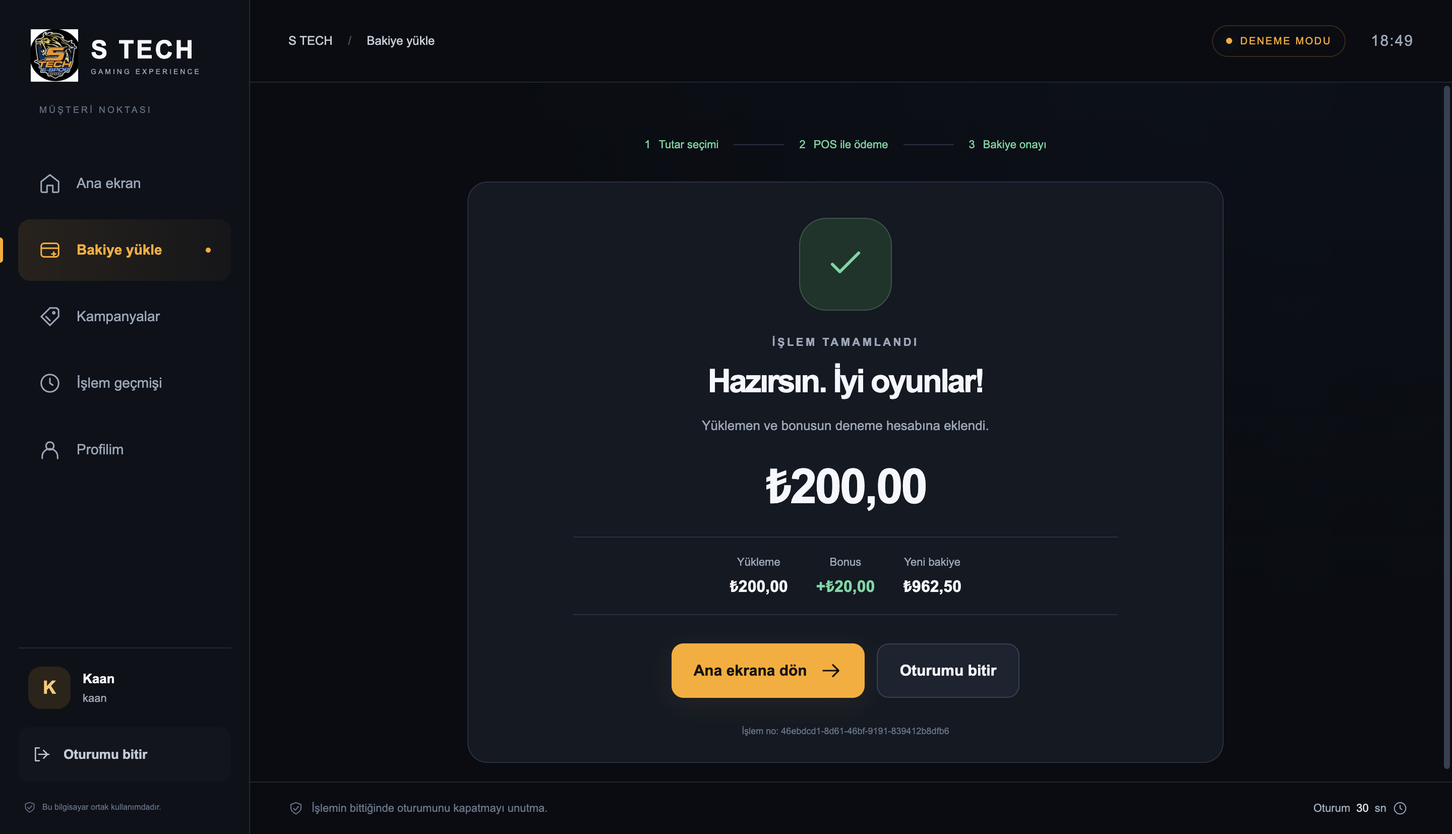
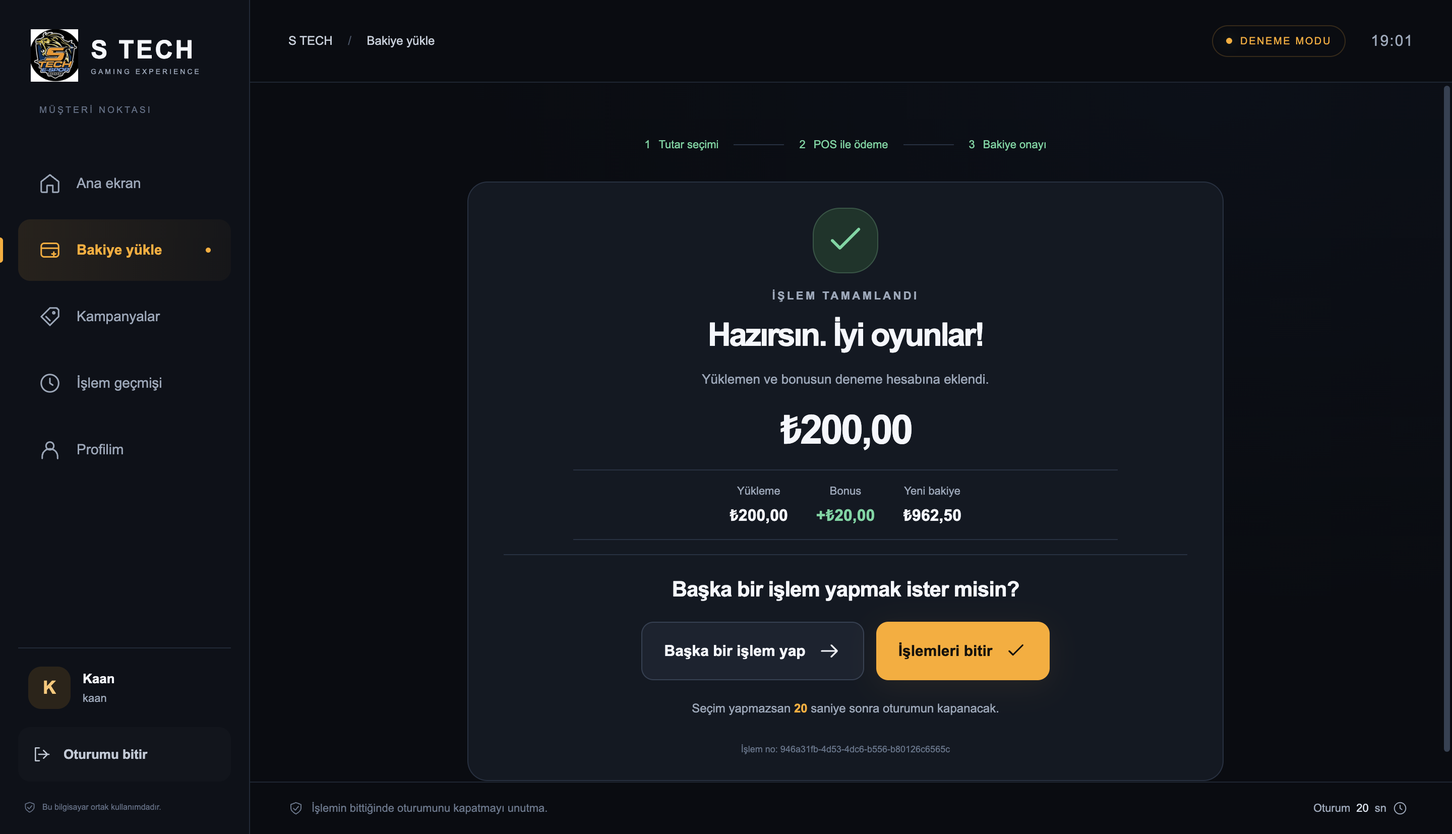
Add ATM-style kiosk completion choices and automatic session exit

Changed region(s): [[0.4375, 0.2467, 0.75, 0.925]]

diff --git a/kiosk/ui/styles.css b/kiosk/ui/styles.css
@@ -1,2 +1,3 @@
 :root{color-scheme:dark;--bg:#090c12;--surface:#131923;--elevated:#1b2330;--border:#263142;--text:#f5f7fc;--muted:#9ba8bb;--orange:#ffaa16;--blue:#48b9ff;--green:#63d8a0;--red:#ff8692;font-family:Inter,"Segoe UI",Arial,sans-serif;color:var(--text);background:var(--bg);font-synthesis:none}*{box-sizing:border-box}body{margin:0;user-select:none;overflow:hidden}button,input{font:inherit}button{cursor:pointer;touch-action:manipulation}button:disabled{opacity:.4;cursor:default}button:focus-visible,input:focus-visible{outline:3px solid var(--blue);outline-offset:4px}button{transition:background .15s,transform .15s}button:active:not(:disabled){transform:scale(.98)}h1,h2,h3,p{margin:0}h1{font-size:clamp(30px,3vw,46px);font-weight:650;letter-spacing:-1.8px;line-height:1.15}h2{font-size:22px;letter-spacing:-.5px}h3{font-size:19px}p{line-height:1.7;color:var(--muted)}.icon{width:23px;height:23px;flex-shrink:0;vertical-align:middle}.orange{color:var(--orange)}.positive{color:var(--green)!important}.muted{color:var(--muted);font-size:14px}.eyebrow{display:block;font-size:11px;font-weight:700;letter-spacing:2.2px;color:var(--muted)}.button{border:0;border-radius:12px;min-height:54px;padding:14px 22px;display:inline-flex;align-items:center;justify-content:center;gap:12px;font-weight:650;font-size:15px;background:transparent;color:var(--text)}.primary{background:var(--orange);color:#16120b;box-shadow:0 6px 28px #ffaa1614}.primary:hover:not(:disabled){background:#ffbb43}.secondary{background:#1b2330;border:1px solid #344154}.secondary:hover{background:#263142}.quiet{color:var(--muted);font-size:14px;padding:12px}.quiet:hover{color:var(--text);background:#ffffff06}.wide{width:100%}.brand{display:flex;align-items:center;gap:10px}.brand img{width:52px;height:52px;object-fit:contain}.brand>span{font-size:25px;letter-spacing:2px;font-weight:800;white-space:nowrap}.brand small{display:block;font-size:7px;letter-spacing:2px;color:var(--muted);margin-top:3px;font-weight:500}.header-right{display:flex;align-items:center;gap:25px}.clock{font-size:15px;letter-spacing:1px;color:var(--muted);font-variant-numeric:tabular-nums}.status{font-size:10px;letter-spacing:1.3px;display:flex;align-items:center;gap:8px;border:1px solid #63d8a024;color:var(--green);border-radius:30px;padding:9px 13px}.status i,.reader-status i{width:6px;height:6px;border-radius:50%;background:var(--green);box-shadow:0 0 12px #63d8a040}.status.demo{border-color:#ffaa1630;color:var(--orange)}.status.demo i{background:var(--orange)}header{display:flex;justify-content:space-between;align-items:center}footer{display:flex;align-items:center;justify-content:space-between;color:#69788e;font-size:11px}footer>span{display:flex;align-items:center;gap:8px}footer .icon{width:15px;height:15px}.footer-separator{margin:0 12px;color:#344154}.welcome{height:100dvh;display:flex;flex-direction:column;padding:35px 5% 24px;background:radial-gradient(ellipse at 80% 40%,#15263a50,transparent 50%),var(--bg)}.welcome-main{display:grid;grid-template-columns:1.05fr 1fr;align-items:center;gap:6%;flex:1;max-width:1360px;width:100%;margin:auto}.welcome-copy .eyebrow{color:var(--orange);display:flex;align-items:center;gap:12px}.tiny-line{height:2px;width:28px;background:var(--orange)}.welcome-copy h1{font-size:clamp(50px,5.5vw,88px);font-weight:750;letter-spacing:-4px;line-height:1.07;margin:30px 0 25px}.welcome-copy h1>span{color:var(--orange)}.welcome-copy>p{font-size:18px;line-height:1.8}.welcome-benefits{display:flex;gap:28px;margin-top:45px;font-size:12px;color:#aebaca}.welcome-benefits>span{display:flex;align-items:center;gap:10px}.welcome-benefits .icon{color:var(--orange);width:20px}.tap-panel{background:linear-gradient(140deg,#1b2432,#111823 70%);border:1px solid #314052;border-radius:28px;text-align:center;padding:24px 30px 26px;max-width:500px;width:100%;justify-self:end;box-shadow:0 30px 100px #0003}.panel-top{display:flex;justify-content:space-between;align-items:center;color:#7e8ca1;font-size:9px;letter-spacing:2px}.panel-top .icon{width:18px;color:#607389}.tap-orbit{height:245px;position:relative;display:grid;place-items:center;margin:8px auto}.tap-ring{position:absolute;width:220px;height:220px;border:1px solid #ffaa1610;border-radius:50%;background:radial-gradient(circle,#ffaa1609,transparent 70%)}.tap-ring.second{width:180px;height:180px;border-color:#ffaa161b}.member-card{width:198px;height:125px;background:linear-gradient(125deg,#35302b,#1b1d22 80%);border:1px solid #8a6d373f;border-radius:13px;transform:rotate(-12deg);padding:18px;box-shadow:14px 25px 35px #0006;position:relative}.member-card:after{content:'S';position:absolute;right:20px;top:25px;font-size:85px;font-style:italic;font-weight:900;color:#ffaa1614;line-height:1}.member-card-head{display:flex;justify-content:space-between;align-items:center;font-size:13px;font-weight:800;letter-spacing:2px;color:var(--orange)}.member-card-head .icon{width:19px}.card-chip{width:24px;height:19px;background:linear-gradient(130deg,#c7a36a,#88724d);border-radius:4px;margin-top:11px}.member-card-bottom{display:flex;justify-content:space-between;font-size:6px;letter-spacing:1px;color:#baa98e;margin-top:15px}.tap-symbol{position:absolute;bottom:23px;right:70px;display:grid;place-items:center;width:58px;height:58px;background:var(--orange);color:#211a0b;border:6px solid #151c27;border-radius:50%}.tap-symbol .icon{width:29px;height:29px}.tap-panel h2{font-size:29px;letter-spacing:-1px}.tap-panel>p{font-size:14px;margin-top:12px}.reader-status{display:flex;gap:9px;align-items:center;justify-content:center;font-size:11px;color:var(--green);margin:23px auto}.demo-entry{border-top:1px solid var(--border);padding-top:18px;display:grid;gap:6px}.demo-entry>span{color:var(--muted);font-size:10px;margin-bottom:7px}.demo-entry .button{min-height:44px;font-size:13px}.demo-entry .quiet{min-height:36px}.secure-note{font-size:11px;color:#718097;display:flex;align-items:center;justify-content:center;gap:8px;line-height:1.5;margin-top:18px}.secure-note .icon{width:16px;height:16px}.shell{display:flex;height:100dvh}.shell aside{width:248px;flex-shrink:0;border-right:1px solid #202a38;background:#0d1119;display:flex;flex-direction:column;padding:29px 18px 20px}.shell aside .brand{padding-left:10px}.station-label{font-size:9px;letter-spacing:2px;color:#627087;margin:23px 0 32px 21px}.nav-item{border:0;background:none;color:var(--muted);height:61px;width:100%;display:flex;align-items:center;gap:15px;padding:0 20px;border-radius:12px;font-size:14px;margin:5px 0;position:relative}.nav-item.active{background:linear-gradient(90deg,#ffaa161c,#ffaa1609);color:var(--orange);font-weight:650}.nav-item.active:before{content:'';position:absolute;left:-18px;width:3px;height:25px;background:var(--orange);border-radius:0 3px 3px 0}.nav-item:hover:not(.active){background:#ffffff04;color:var(--text)}.nav-dot{width:5px;height:5px;background:var(--orange);border-radius:50%;margin-left:auto}.sidebar-bottom{margin-top:auto}.member-mini{display:flex;align-items:center;gap:12px;padding:18px 10px;border-top:1px solid #202a38}.avatar{height:42px;width:42px;border-radius:13px;background:#2c2418;color:#ffc770;display:grid;place-items:center;font-size:18px;font-weight:700;flex-shrink:0}.member-mini strong{font-size:13px;display:block;max-width:140px;overflow:hidden;text-overflow:ellipsis;white-space:nowrap}.member-mini span{font-size:11px;color:var(--muted);display:block;margin-top:5px}.logout-button{color:#c1cad7;width:100%;justify-content:flex-start;font-size:13px;padding-left:14px;background:#ffffff04}.logout-button .icon{width:19px}.sidebar-foot{font-size:8px;color:#627087;display:flex;align-items:center;gap:6px;margin:19px 5px 0}.sidebar-foot .icon{width:13px;height:13px}.workspace{flex:1;min-width:0;display:flex;flex-direction:column}.workspace>header{height:82px;flex-shrink:0;border-bottom:1px solid #1d2633;padding:0 38px}.breadcrumb{font-size:12px;color:#c6cfdb}.breadcrumb>span{color:#485569;margin:0 12px}.workspace>footer{height:52px;flex-shrink:0;padding:0 38px;border-top:1px solid #1d2633}.session-time{font-size:11px;color:var(--muted);background:none;border:0;display:flex;align-items:center;gap:6px;min-height:42px}.session-time b{font-weight:500;color:#d9e1ec}.content{flex:1;overflow:auto;padding:35px 38px 28px;scrollbar-width:thin;scrollbar-color:#344154 transparent;background:radial-gradient(ellipse at 80% 0,#11203635,transparent 55%)}.page-heading{display:flex;align-items:center;justify-content:space-between;margin-bottom:28px;gap:20px}.page-heading h1{margin:11px 0}.page-heading p{font-size:13px}.member-badge{display:inline-flex;align-items:center;gap:8px;color:#a9b9cd;font-size:10px;letter-spacing:1px;padding:11px 13px;border:1px solid var(--border);border-radius:9px;white-space:nowrap}.member-badge .icon{width:19px;height:19px;color:var(--orange)}.home-grid{display:grid;grid-template-columns:1.35fr 1fr;gap:22px}.balance-card{position:relative;overflow:hidden;border-radius:22px;padding:27px;background:linear-gradient(110deg,#1c2635,#152031);border:1px solid #344357;min-height:265px}.balance-top{display:flex;align-items:center;justify-content:space-between;position:relative;z-index:1}.balance-top>span:first-child{font-size:10px;letter-spacing:1.7px;color:#c0ccdc;display:flex;align-items:center;gap:10px}.balance-top .icon{width:20px;color:var(--orange)}.balance-mark{font-size:29px;font-style:italic;font-weight:900;color:#8a98ae}.balance-value{font-size:clamp(40px,4.1vw,65px);font-weight:700;letter-spacing:-2.6px;margin:18px 0 3px;position:relative;z-index:1;font-variant-numeric:tabular-nums}.balance-caption{font-size:11px;color:#899ab0;position:relative;z-index:1}.balance-bottom{display:flex;align-items:center;justify-content:space-between;gap:12px;margin-top:28px;position:relative;z-index:1}.balance-bottom>.button{min-width:180px}.balance-bottom>span{font-size:9px;color:#98a8be;display:flex;align-items:center;gap:5px}.balance-bottom>span .icon{width:14px;height:14px}.balance-decoration{width:240px;height:310px;position:absolute;right:-70px;top:20px;border:45px solid #293b5260;transform:rotate(30deg) skew(-7deg);border-radius:25px}.campaign-card{position:relative;overflow:hidden;border:1px solid #6b4b22;border-radius:22px;padding:25px;background:linear-gradient(125deg,#35291a,#1e1a16);display:flex;flex-direction:column;align-items:flex-start;min-height:265px}.campaign-card .eyebrow{color:#c8a36e;font-size:9px;z-index:1}.campaign-big{display:flex;align-items:center;gap:12px;font-size:62px;font-weight:850;letter-spacing:-4px;color:var(--orange);margin:4px 0;z-index:1}.campaign-big>span{font-size:16px;letter-spacing:2px;max-width:60px;line-height:1.2;font-weight:700}.campaign-card h3{font-size:17px;letter-spacing:-.4px;z-index:1}.campaign-card>p{font-size:12px;color:#c0ad91;margin:8px 0 12px;z-index:1;max-width:230px}.light-button{padding:8px 0;min-height:34px;font-size:12px;color:#ffd18b;z-index:1;margin-top:auto}.light-button .icon{width:17px}.campaign-watermark{position:absolute;right:-20px;top:20px;color:#ffaa160b;font-size:280px;font-weight:400;line-height:1;transform:rotate(-15deg)}.quick-strip{display:flex;align-items:center;justify-content:space-between;padding:20px 0;margin:5px 0 15px;gap:15px}.quick-strip>div{display:flex;align-items:center;gap:12px}.quick-strip>div>.icon{width:36px;height:36px;color:#637c9c}.quick-strip>div span{font-size:10px;color:var(--muted);line-height:1.8}.quick-strip strong{display:block;font-size:12px;font-weight:500;color:#c4d0df}.quick-strip>p{font-size:11px}.quick-strip .button{font-size:11px}.panel{background:var(--surface);border:1px solid var(--border);border-radius:20px;padding:24px}.section-heading{display:flex;align-items:center;justify-content:space-between;margin-bottom:12px;gap:15px}.section-heading h2{font-size:19px}.section-heading>span{font-size:10px;color:#74839a;letter-spacing:2px}.section-heading .button{font-size:12px;min-height:36px}.recent{padding:15px 24px 10px}.transaction{display:flex;align-items:center;gap:13px;padding:17px 0;border-top:1px solid #243040}.transaction-icon{height:39px;width:39px;display:grid;place-items:center;border-radius:12px;background:#1e2b3c;color:#84a5cf;flex-shrink:0}.transaction-icon .icon{width:20px;height:20px}.transaction-icon.topup{background:#1e302b;color:var(--green)}.transaction-icon.bonus{background:#332a1b;color:var(--orange)}.transaction-description{flex:1;min-width:0}.transaction-description strong{display:block;font-size:12px;font-weight:550;line-height:1.5}.transaction-description span{display:block;margin-top:5px;font-size:10px;color:#78899f}.transaction-amount{text-align:right;flex-shrink:0}.transaction-amount strong{font-size:14px;font-weight:600}.transaction-amount span{display:block;margin-top:6px;font-size:10px;color:#78899f}.pending-banner{display:flex;align-items:center;gap:15px;background:#172a3c;border:1px solid #2a526f;border-radius:14px;padding:16px 20px;margin-bottom:20px;color:var(--blue)}.pending-banner>div{flex:1}.pending-banner strong{display:block;font-size:13px;color:var(--text)}.pending-banner span{display:block;font-size:11px;color:#90aac1;margin-top:5px}.pending-banner .button{min-height:42px;font-size:12px}.notice{background:#302416;border:1px solid #664720;color:#e4bf87;font-size:12px;padding:15px 18px;border-radius:12px;display:flex;align-items:center;gap:12px;margin-bottom:24px;line-height:1.7}.notice .icon{width:20px;align-self:flex-start;margin-top:1px}.notice.neutral{background:#152235;border-color:#2a3d56;color:#9db3cf}.topup-grid{display:grid;grid-template-columns:1.1fr 1fr;gap:25px;max-width:1080px}.amount-panel{padding:25px}.amount-display{display:flex;align-items:baseline;gap:10px;justify-content:center;border:1px solid #3b4b61;background:#0e1520;border-radius:14px;padding:20px;margin:22px 0 18px;font-variant-numeric:tabular-nums}.amount-display strong{font-size:50px;letter-spacing:-2px}.amount-display>span:first-child{color:var(--orange);font-size:25px}.amount-display>span:last-child{font-size:14px;color:var(--muted)}.amount-presets{display:grid;grid-template-columns:repeat(4,1fr);gap:8px;margin-bottom:20px}.preset{font-size:12px;padding:10px 5px;min-height:47px;border:1px solid var(--border);border-radius:9px;background:#1a2330;color:#afbdd0}.preset.selected{border-color:var(--orange);color:var(--orange);background:#332919}.keypad{display:grid;grid-template-columns:repeat(3,1fr);gap:9px}.key{background:#1b2533;min-height:58px;border-radius:10px;font-size:23px;font-weight:500;padding:8px}.key:hover{background:#29384b}.key-small{font-size:11px;color:var(--muted)}.minimum{font-size:10px;text-align:center;margin-top:17px}.summary h2{margin:13px 0 25px;font-size:25px}.summary-row{display:flex;justify-content:space-between;align-items:center;gap:20px;padding:17px 0;border-bottom:1px solid var(--border);font-size:13px}.summary-row>span{color:var(--muted)}.summary-row strong{font-weight:550}.summary-total{display:flex;justify-content:space-between;align-items:center;padding:24px 0;gap:15px}.summary-total>span{font-size:12px;color:#cad3e0}.summary-total strong{color:var(--orange);font-size:30px;letter-spacing:-1px}.bonus-note{display:flex;align-items:center;gap:8px;color:var(--green);font-size:10px;margin-bottom:25px}.bonus-note .icon{width:16px}.summary>p{font-size:11px;margin-bottom:23px}.payment-how{padding:25px 15px;color:var(--muted)}.payment-how>span{font-size:9px;letter-spacing:2px;color:#687b96}.payment-how p{font-size:12px;display:flex;gap:13px;align-items:center;margin-top:15px}.payment-how b{font-size:10px;background:#1b2533;border:1px solid #2c3a4e;display:grid;place-items:center;width:23px;height:23px;border-radius:50%;font-weight:500}.campaign-grid{display:grid;grid-template-columns:repeat(2,1fr);gap:22px;margin-bottom:25px}.campaign-grid .campaign-card{padding:35px;min-height:360px}.campaign-grid .campaign-big{font-size:90px}.campaign-grid .campaign-card h3{font-size:22px}.campaign-grid .campaign-card>p{font-size:14px;max-width:100%}.filter-bar{display:flex;gap:10px;margin-bottom:24px;flex-wrap:wrap}.filter{font-size:12px;color:var(--muted);background:#121a25;border:1px solid var(--border);min-height:46px;padding:10px 20px}.filter.selected{color:var(--orange);border-color:#705021;background:#2d2418}.history-panel .transaction:first-child{border:0}.history-panel .transaction{padding:22px 0}.session-panel{margin-top:24px}.session-panel h2{margin-bottom:20px}.session-panel>.transaction>.icon{color:var(--blue)}.session-panel>.transaction>strong{font-size:13px}.loading-line{font-size:12px;text-align:center;padding:20px}.empty{text-align:center;padding:50px 20px;color:#677991}.empty>.icon{width:36px;height:36px;margin-bottom:17px}.empty h3,.empty h2{color:#d5dfed;font-size:18px;margin-bottom:10px}.empty p{font-size:12px}.profile-grid{display:grid;grid-template-columns:.7fr 1.3fr;gap:25px}.profile-card{display:flex;align-items:center;flex-direction:column;padding:35px 25px}.avatar.large{width:82px;height:82px;border-radius:24px;font-size:36px;margin-bottom:22px}.profile-card h2{font-size:25px;margin-bottom:8px;text-align:center}.profile-card .member-badge{margin-top:25px}.profile-balance{margin-top:30px;border-top:1px solid var(--border);padding-top:25px;text-align:center;width:100%}.profile-balance span{display:block;color:var(--muted);font-size:11px}.profile-balance strong{display:block;color:var(--orange);font-size:30px;margin-top:12px}.profile-details h2{margin-bottom:12px}.profile-details .notice{margin-top:24px;margin-bottom:0;font-size:11px}.profile-details strong{max-width:65%;overflow-wrap:anywhere;text-align:right}.privacy-strip{display:flex;align-items:center;gap:20px;margin-top:25px;padding:24px;background:#0f1825;border:1px solid var(--border);border-radius:16px}.privacy-strip>.icon{color:var(--blue);width:29px;height:29px}.privacy-strip>div{flex:1}.privacy-strip strong{font-size:13px}.privacy-strip p{font-size:11px;margin-top:5px}.privacy-strip .button{font-size:12px}.payment-page{max-width:1000px;margin:auto}.payment-steps{display:flex;justify-content:center;align-items:center;margin:20px 0 30px;gap:15px}.payment-steps>span{display:flex;align-items:center;gap:8px;font-size:11px;color:#5e718b}.payment-steps b{font-weight:500}.payment-steps i{width:50px;height:1px;background:var(--border)}.payment-steps .current{color:var(--orange)}.payment-steps .finished{color:var(--green)}.payment-panel{text-align:center;padding:35px 35px 25px;max-width:750px;margin:auto}.payment-illustration{width:92px;height:92px;border-radius:27px;background:#33291b;color:var(--orange);display:grid;place-items:center;margin:0 auto 25px;border:1px solid #6b4b22}.payment-illustration .icon{width:45px;height:45px}.payment-illustration.success{background:#19352a;color:var(--green);border-color:#315746}.payment-illustration.failure{background:#35202a;color:var(--red);border-color:#68384b}.payment-panel h1{font-size:32px;margin:14px 0}.payment-panel>p{font-size:13px}.payment-value{font-size:48px;letter-spacing:-2px;font-weight:700;margin:22px 0}.payment-receipt{display:flex;justify-content:center;gap:28px;border-top:1px solid var(--border);border-bottom:1px solid var(--border);padding:18px 0;margin:0 auto 25px;max-width:540px}.payment-receipt>span{color:var(--muted);font-size:11px}.payment-receipt b{display:block;margin-top:8px;font-size:16px;color:var(--text);font-weight:550}.pos-demo{background:#101923;border:1px dashed #364257;padding:18px;border-radius:12px}.pos-demo>span{font-size:8px;letter-spacing:1.3px;color:#9da9b9}.pos-demo>div{display:flex;gap:12px;justify-content:center;margin-top:16px}.pos-demo .button{font-size:12px}.receipt-id{font-size:9px;color:#66768d;margin-top:25px;overflow-wrap:anywhere}.payment-panel>.button{margin:3px 6px}.no-campaign{display:flex;flex-direction:column;justify-content:center;gap:18px}.no-campaign .icon{color:var(--blue)}.no-campaign p{font-size:12px}#toast{position:fixed;bottom:72px;left:50%;transform:translateX(-50%);background:#35242a;color:#ffe1e5;border:1px solid #8e4f5d;border-radius:12px;padding:17px 24px;max-width:650px;width:max-content;font-size:14px;z-index:100;box-shadow:0 10px 40px #0007;line-height:1.6}#toast[hidden]{display:none}.modal-backdrop{position:fixed;inset:0;background:#030810c9;backdrop-filter:blur(8px);z-index:50;display:grid;place-items:center;padding:25px}.modal{background:#151e2b;border:1px solid #35445a;border-radius:24px;padding:34px;max-width:480px;width:100%;box-shadow:0 30px 100px #0008;text-align:center;max-height:95dvh;overflow:auto}.modal h2{font-size:27px;margin:13px 0}.modal>p{font-size:13px;margin-bottom:23px}.modal .button.wide{margin-top:10px}.modal-symbol{display:grid;place-items:center;width:62px;height:62px;border-radius:19px;background:#2f291d;color:var(--orange);margin:auto}.modal-symbol>.icon{width:28px;height:28px}.campaign-terms{text-align:left;background:#101824;border:1px solid var(--border);padding:20px;border-radius:14px;margin:22px 0;font-size:12px}.campaign-terms p{margin:14px 0}.campaign-terms>span{font-size:10px;color:#8c9cb3}.pin-input{width:100%;border:1px solid #42536a;background:#0c1420;border-radius:10px;height:56px;text-align:center;font-size:25px;letter-spacing:12px;color:var(--text)}.admin-keypad{margin-top:16px}.admin-keypad .key{min-height:45px;font-size:19px}.boot-error{padding:80px}.boot-error p{margin-top:20px}.pulse{animation:pulse 1.3s infinite}@keyframes pulse{50%{opacity:.25}}@media(min-width:1650px){.content{padding:45px 60px}.home-grid{grid-template-columns:1.5fr 1fr}.balance-card{min-height:330px;padding:35px}.balance-value{margin-top:30px;font-size:80px}.balance-bottom{margin-top:35px}.campaign-card{padding:30px}.campaign-big{font-size:80px}.recent .transaction{padding:22px 0}}@media(max-width:1150px){.shell aside{width:205px;padding-left:12px;padding-right:12px}.shell aside .brand{padding-left:0}.brand>span{font-size:21px}.brand img{width:44px;height:44px}.nav-item{padding:0 12px;font-size:12px;gap:10px}.nav-item.active:before{left:-12px}.sidebar-foot{font-size:7px}.content{padding:26px}.workspace>header,.workspace>footer{padding-left:26px;padding-right:26px}.quick-strip>p{display:none}.balance-card{padding:22px}.balance-bottom>span{display:none}.home-grid{gap:16px}.campaign-card{padding:22px}.campaign-big{font-size:52px}.balance-value{font-size:47px}.member-badge{font-size:8px;padding:10px}.topup-grid{gap:18px}.amount-panel,.summary{padding:20px}.summary-total strong{font-size:25px}.welcome{padding:25px 4%}.welcome-main{gap:3%}.welcome-copy h1{font-size:58px}.welcome-benefits{gap:15px}.welcome-benefits>span{font-size:10px}.tap-panel{padding:20px 25px}.tap-orbit{height:210px}.welcome-copy>p{font-size:16px}}@media(max-height:800px){.welcome{padding-top:20px}.tap-orbit{height:170px;margin:4px auto}.tap-ring{width:170px;height:170px}.tap-ring.second{width:145px;height:145px}.tap-symbol{bottom:4px;right:65px}.tap-panel{padding:18px 24px}.tap-panel h2{font-size:25px}.tap-panel>p{font-size:12px;margin-top:8px}.reader-status{margin:17px auto}.demo-entry{padding-top:12px;gap:3px}.demo-entry>.button{min-height:38px}.demo-entry>span{font-size:9px}.welcome-benefits{margin-top:30px}.station-label{margin-bottom:20px}.nav-item{height:52px}.workspace>header{height:70px}.content{padding-top:25px}.page-heading{margin-bottom:22px}.page-heading h1{font-size:32px}.balance-card,.campaign-card{min-height:245px}.balance-value{margin-top:12px}.balance-bottom{margin-top:20px}.quick-strip{padding:12px 0;margin:4px 0 10px}.transaction{padding:14px 0}.amount-display{padding:12px;margin:16px 0}.amount-display strong{font-size:40px}.key{min-height:49px}.amount-presets{margin-bottom:15px}.summary-total{padding:20px 0}.payment-how{padding-top:18px}.payment-panel{padding:25px}.payment-illustration{width:70px;height:70px;margin-bottom:18px}.payment-panel h1{font-size:28px}.payment-value{font-size:40px;margin:17px 0}.payment-steps{margin:10px 0 20px}.payment-receipt{margin-bottom:20px}.profile-card{padding-top:25px}.avatar.large{width:65px;height:65px;font-size:28px}.privacy-strip{margin-top:18px}.sidebar-foot{margin-top:12px}}@media(prefers-reduced-motion:reduce){*{animation:none!important;transition:none!important}}
 @media(max-height:950px){.content:has(.topup-grid) .page-heading{margin-bottom:18px}.content:has(.topup-grid) .page-heading h1{font-size:30px;margin:8px 0}.content:has(.topup-grid) .page-heading p{font-size:12px}.content:has(.topup-grid)>.notice{padding:11px 16px;margin-bottom:18px}.topup-grid .amount-panel{padding:20px}.topup-grid .section-heading{margin-bottom:10px}.topup-grid .amount-display{padding:10px;margin:12px 0}.topup-grid .amount-display strong{font-size:38px}.topup-grid .amount-presets{margin-bottom:12px}.topup-grid .preset{min-height:42px}.topup-grid .keypad{gap:8px}.topup-grid .key{min-height:44px;font-size:21px}.topup-grid .key-small{font-size:10px}.topup-grid .minimum{margin-top:12px}.summary-column .payment-how{padding-top:18px}.summary-column .payment-how p{margin-top:12px}}
+.completion-choice{border-top:1px solid var(--border);padding-top:22px;margin-top:10px}.completion-choice h2{font-size:21px;margin-bottom:20px}.completion-actions{display:flex;justify-content:center;gap:12px}.completion-countdown{font-size:12px;margin-top:18px;color:var(--muted)}.completion-countdown b{color:var(--orange);font-variant-numeric:tabular-nums}.completion-actions .button{min-height:58px}.payment-panel:has(.completion-choice){padding-top:25px}.payment-panel:has(.completion-choice) .payment-illustration{width:65px;height:65px;margin-bottom:16px}.payment-panel:has(.completion-choice) .payment-value{margin:16px 0;font-size:40px}.payment-panel:has(.completion-choice) .payment-receipt{margin-bottom:14px;padding:14px 0}

diff --git a/kiosk/ui/app.js b/kiosk/ui/app.js
@@ -83,7 +83,7 @@ function topup() {
 function paymentView() {
   const p = state.payment, done = p.status === 'completed', failed = p.status === 'failed';
   return `<div class="payment-page">${!state.processing && !done ? button(icon('back') + ' Tutara geri dön', 'payment-back', 'quiet') : ''}<div class="payment-steps"><span class="finished">1 <b>Tutar seçimi</b></span><i></i><span class="${done ? 'finished' : 'current'}">2 <b>POS ile ödeme</b></span><i></i><span class="${done ? 'finished' : ''}">3 <b>Bakiye onayı</b></span></div><section class="panel payment-panel"><div class="payment-illustration ${done ? 'success' : failed ? 'failure' : ''}">${icon(done ? 'check' : failed ? 'close' : 'topup')}</div><span class="eyebrow">${done ? 'İŞLEM TAMAMLANDI' : failed ? 'ÖDEME ONAYLANMADI' : 'POS İLE ÖDEME'}</span><h1>${done ? 'Hazırsın. İyi oyunlar!' : failed ? 'Tekrar deneyebilirsin.' : state.processing ? 'İşlemin kontrol ediliyor…' : 'Kartını POS cihazına okut.'}</h1><p>${done ? 'Yüklemen ve bonusun deneme hesabına eklendi.' : failed ? 'Hesabından tahsilat yapılmadı ve bakiye eklenmedi.' : 'POS cihazındaki yönlendirmeleri takip et.<br>Ödeme sonucu burada görünecek.'}</p><div class="payment-value">${cash(p.amount)}</div><div class="payment-receipt"><span>Yükleme <b>${cash(p.amount)}</b></span><span>Bonus <b class="positive">+${cash(p.bonus)}</b></span>${done ? '<span>Yeni bakiye <b>' + cash(p.balanceAfter) + '</b></span>' : ''}</div>
-  ${done ? button('Ana ekrana dön ' + icon('arrow'), 'payment-done', 'primary') + button('Oturumu bitir', 'logout', 'secondary') : failed ? button('Yeni işlem başlat', 'payment-back', 'primary') : `<div class="pos-demo"><span>DENEME POS KONTROLLERİ · GERÇEK TAHSİLAT YOK</span><div>${button(icon('check') + ' Ödemeyi onayla', 'approve', 'primary', state.processing)}${button('Ödemeyi reddet', 'decline', 'secondary', state.processing)}</div></div>`}
+  ${done ? '<div class="completion-choice"><h2>Başka bir işlem yapmak ister misin?</h2><div class="completion-actions">' + button('Başka bir işlem yap ' + icon('arrow'), 'another-transaction', 'secondary', state.processing) + button('İşlemleri bitir ' + icon('check'), 'finish-session', 'primary') + '</div><p class="completion-countdown">Seçim yapmazsan <b id="completion-seconds">' + Math.ceil(state.seconds) + '</b> saniye sonra oturumun kapanacak.</p></div>' : failed ? button('Yeni işlem başlat', 'payment-back', 'primary') : `<div class="pos-demo"><span>DENEME POS KONTROLLERİ · GERÇEK TAHSİLAT YOK</span><div>${button(icon('check') + ' Ödemeyi onayla', 'approve', 'primary', state.processing)}${button('Ödemeyi reddet', 'decline', 'secondary', state.processing)}</div></div>`}
   <div class="receipt-id">İşlem no: ${e(p.id)}</div></section></div>`;
 }
 function campaigns() {
@@ -151,6 +151,7 @@ async function updateQuote() {
 }
 async function go(page) {
   if (state.processing) return;
+  if (state.payment?.status === 'completed') { toast('Devam etmek için “Başka bir işlem yap” seçeneğine dokun.'); return; }
   if (state.payment?.status === 'pending') { toast('Önce ödeme ekranındaki işlemi tamamla veya tutara geri dön.'); return; }
   state.page = page; state.payment = null; state.modal = null; renderModal(); render();
   if (page === 'history') await loadHistory();
@@ -159,8 +160,20 @@ async function go(page) {
 async function action(value) {
   const [name, arg] = value.split(':');
   if (name === 'demo1' || name === 'demo2') return scan(name === 'demo1' ? 'DEMO0001' : 'DEMO0002');
+  if (name === 'finish-session' || (name === 'logout' && state.payment?.status === 'completed')) { reset(); await call('logout'); return; }
+  if (name === 'another-transaction') {
+    if (state.processing) return;
+    const epoch = state.epoch; state.processing = true; render();
+    try {
+      const result = await call('continueSession');
+      if (epoch !== state.epoch) return;
+      state.seconds = result.remaining; state.payment = null; state.page = 'home'; state.modal = null; renderModal(); await refresh();
+    } finally { if (epoch === state.epoch) { state.processing = false; render(); } }
+    return;
+  }
   if (name === 'logout') { state.modal = 'logout'; renderModal(); return; }
   if (name === 'confirm-logout') { reset(); await call('logout'); return; }
+  if (name === 'continue' && state.payment?.status === 'completed') return;
   if (name === 'continue') { await call('activity'); state.modal = null; renderModal(); return; }
   if (name === 'close-modal') { state.modal = null; state.pin = ''; renderModal(); return; }
   if (name === 'campaign') { state.modal = arg; renderModal(); return; }
@@ -182,15 +195,15 @@ async function action(value) {
     finally { if (epoch === state.epoch) { state.processing = false; render(); } }
     return;
   }
-  if (name === 'resume') { const epoch = state.epoch; const payment = await call('payment', { id: arg }); if (epoch !== state.epoch) return; state.payment = payment; state.page = 'topup'; render(); return; }
+  if (name === 'resume') { const epoch = state.epoch; const payment = await call('payment', { id: arg }); if (epoch !== state.epoch) return; state.payment = payment; if (payment.completionSeconds !== undefined) state.seconds = payment.completionSeconds; state.page = 'topup'; render(); return; }
   if (name === 'approve' || name === 'decline') {
     if (state.processing || !state.payment || state.payment.status !== 'pending') return;
     const epoch = state.epoch; state.processing = true; render();
-    try { const payment = await call('settle', { id: state.payment.id, outcome: name === 'approve' ? 'approved' : 'declined' }); if (epoch !== state.epoch) return; state.payment = payment; await refresh(); }
+    try { const payment = await call('settle', { id: state.payment.id, outcome: name === 'approve' ? 'approved' : 'declined' }); if (epoch !== state.epoch) return; state.payment = payment; if (payment.completionSeconds !== undefined) { state.seconds = payment.completionSeconds; state.modal = null; renderModal(); } await refresh(); }
     finally { if (epoch === state.epoch) { state.processing = false; render(); } }
     return;
   }
-  if (name === 'payment-back' || name === 'payment-done') { state.payment = null; if (name === 'payment-done') { state.page = 'home'; return refresh(); } return updateQuote(); }
+  if (name === 'payment-back' && state.payment?.status !== 'completed') { state.payment = null; return updateQuote(); }
   if (name === 'pin') { state.pin = arg === 'clear' ? '' : arg === 'back' ? state.pin.slice(0,-1) : (state.pin + arg).slice(0,16); renderModal(); return; }
   if (name === 'admin-exit') { await call('adminExit', { pin: state.pin }); return; }
 }
@@ -229,6 +242,8 @@ if (window.stech) {
   window.stech.on('countdown', seconds => {
     state.seconds = seconds;
     if ($('#seconds')) $('#seconds').textContent = Math.ceil(seconds);
+    if ($('#completion-seconds')) $('#completion-seconds').textContent = Math.ceil(seconds);
+    if (state.payment?.status === 'completed') return;
     if ($('#idle-seconds')) $('#idle-seconds').textContent = Math.ceil(seconds);
     if (seconds <= 15 && state.data && state.modal !== 'idle') { state.modal = 'idle'; renderModal(); }
   });

diff --git a/kiosk/docs/VERIFICATION.md b/kiosk/docs/VERIFICATION.md
@@ -3,8 +3,8 @@
 Bu çalışma macOS / Apple Silicon ortamında yapıldı.
 
 - API: 40 test geçti. Kiosk cihaz anahtarı, kart eşleştirme, PanCafe soyadı lookup adaptörü, beş dakikalık yenilenemeyen oturum ve çıkış iptali dahil.
-- Kiosk: 12 test geçti. İki müşteri ayrımı, hareketsizlik/azami süre, geç gelen yanıt, tekrar onayda tek bakiye artışı, red, disk yazma hatası, kalıcı demo verisi ve gerçek modda simülasyon engeli dahil.
-- Gerçek Electron penceresinde otomatik UI akışı geçti: klavye protokolüyle NFC girişi, 200 TL + 20 TL bonus, red, geçmiş, kampanya koşulları, profil, çıkış/başka müşteri ve 1024px yatay taşma kontrolü. Ekran görüntüleri `screenshots/` içinde.
+- Kiosk: 16 test geçti. İki müşteri ayrımı, hareketsizlik/azami süre, geç gelen yanıt, tekrar onayda tek bakiye artışı, red, disk yazma hatası, kalıcı demo verisi ve gerçek modda simülasyon engeli dahil.
+- Gerçek Electron penceresinde otomatik UI akışı geçti: klavye protokolüyle NFC girişi, 200 TL + 20 TL bonus, red, geçmiş, kampanya koşulları, profil, çıkış/başka müşteri ve 1024px yatay taşma kontrolü. Başarılı yükleme sonrası başka işlem seçimi, doğrudan bitirme ve 20 saniye seçim yapılmadığında otomatik kart bekleme ekranına dönüş gerçek Electron penceresinde doğrulandı; rastgele dokunmanın süreyi uzatmadığı kontrol edildi. Ekran görüntüleri `screenshots/` içinde.
 - API ve mobil TypeScript kontrolleri, API derlemesi ve mevcut mobil lint geçti.
 - Kiosk JavaScript sözdizimi ve `git diff --check` geçti.
 - Windows x64 uygulama klasörü çapraz derlendi. Tek dosya taşınabilir EXE için NSIS 1.2.1 araç seti kullanıldı; eski varsayılan araç seti Apple Silicon üzerinde çalışmadığı için proje ayarında yeni araç seti seçildi.

diff --git a/kiosk/README.md b/kiosk/README.md
@@ -39,6 +39,7 @@ Varsayılan dosya `%APPDATA%/kiosk/kiosk.config.json`. `STECH_KIOSK_CONFIG` orta
   "mode": "connected",
   "station": "S TECH · Merkez",
   "idleSeconds": 90,
+  "completionSeconds": 20,
   "apiBaseUrl": "http://127.0.0.1:3001/api/v1",
   "deviceKey": "SUNUCUDAKI_AYNI_UZUN_CIHAZ_ANAHTARI",
   "adminPinHash": "URETILEN_128_KARAKTER_HEX_HASH"
@@ -65,6 +66,7 @@ Opsiyonel mock API kart eşlemesi için `KIOSK_CARD_MAP_FILE` mutlak JSON yolu k
 
 ## Ortak bilgisayar davranışı
 
+- Başarılı yüklemeden sonra ATM akışı: **Başka bir işlem yap** ana ekrana döner; **İşlemleri bitir** ek onay sormadan kart bekleme ekranını açar. Seçim yapılmazsa varsayılan 20 saniyede oturum kapanır. `completionSeconds` ile 5–60 saniye ayarlanabilir. Ekrana rastgele dokunmak veya tekrar gelen ödeme onayı bu süreyi uzatmaz. Bu aşamada genel hareketsizlik uyarısı açılmaz.
 - Varsayılan 90 saniye hareketsizlik; son 15 saniye uyarı. Yapılandırılabilir sınır 30–120 saniye. En fazla 5 dakika sonra yeniden kart okutulur.
 - Oturum anahtarı yalnızca Electron ana sürecinin belleğinde tutulur; sayfaya ve diske verilmez. Kiosk anahtarı renderer'a aktarılmaz.
 - Çıkışta önce ekran/veriler temizlenir, sunucu oturumu iptal edilir. Geç gelen önceki müşteri yanıtları gösterilmez. API kiosk anahtarları yenilenemez ve 5 dakikada biter.
